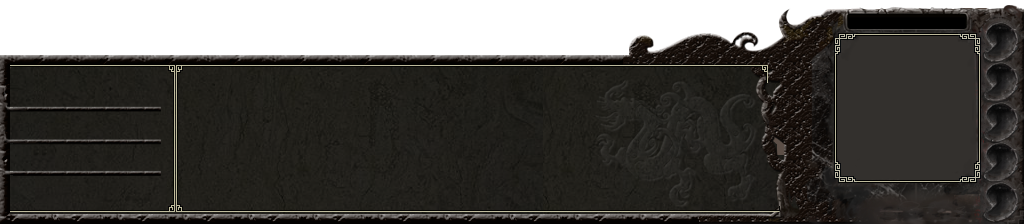
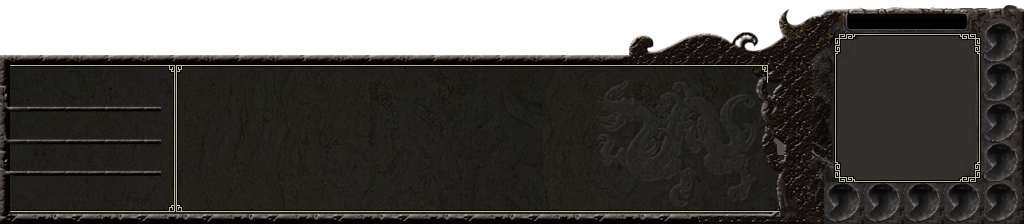
Tell the seat information when all role is assigned
1. Cao Cao can not invoke Hujia when there is no wei general
2. Liu Bei can not invoke Jijiang when there is no shu general
3. Move mark & markable to Pixmap
4. Dongzhuo's hp is drawed more suitable
5. Rename max_hp to maxhp
6. Draw user's name when general's is not chosen
7. Add player's object name to chat box
8. Fix that Diaochan's Lijian don't throw card problem
9. Fix the Lusu's Haoshi invocation mechanism

Changed region(s): [[0.7812, 0.8125, 0.9688, 1.0]]

diff --git a/sanguosha.ts b/sanguosha.ts
@@ -3158,7 +3158,7 @@
     <message>
         <location filename="src/thicket.cpp" line="707"/>
         <source>songwei:yes</source>
-        <translation>你可进行一次判定， 若结果为黑色且生效，可以让曹丕摸一张牌</translation>
+        <translation>可以让曹丕摸一张牌</translation>
     </message>
     <message>
         <location filename="src/thicket.cpp" line="708"/>

diff --git a/src/thicket.cpp b/src/thicket.cpp
@@ -300,15 +300,11 @@ public:
     Haoshi():PhaseChangeSkill("haoshi"){
     }
 
-    virtual int getPriority(ServerPlayer *) const{
-        return -1;
-    }
-
     virtual bool onPhaseChange(ServerPlayer *lusu) const{
         if(lusu->getPhase() == Player::Draw){
             Room *room = lusu->getRoom();
             if(room->askForSkillInvoke(lusu, objectName())){
-                lusu->drawCards(2);
+                lusu->drawCards(4);
 
                 if(lusu->getHandcardNum() > 5){
                     QList<ServerPlayer *> other_players = room->getOtherPlayers(lusu);
@@ -318,6 +314,8 @@ public:
                     room->setPlayerMark(lusu, "haoshi", least);
                     room->askForUseCard(lusu, "@@haoshi!", "@haoshi");
                 }
+
+                return true;
             }
         }
 
@@ -566,7 +564,7 @@ public:
                     room->getThread()->trigger(Death, dongzhuo);
                 }
 
-                room->broadcastProperty(dongzhuo, "max_hp");
+                room->broadcastProperty(dongzhuo, "maxhp");
                 room->broadcastProperty(dongzhuo, "hp");
             }
         }
@@ -585,10 +583,7 @@ public:
         if(target->getGeneral()->getKingdom() != "qun")
             return false;
 
-        if(target->isLord())
-            return false;
-
-        return target->getRoom()->getLord()->hasSkill(objectName());
+        return !target->isLord();
     }
 
     virtual bool trigger(TriggerEvent event, ServerPlayer *player, QVariant &data) const{

diff --git a/src/room.cpp b/src/room.cpp
@@ -757,6 +757,13 @@ void Room::assignRoles(){
 
     for(i=0; i<players.length(); i++)
         players.at(i)->setSeat(i+1);
+
+    // tell the players about the seat, and the first is always the lord
+    QStringList player_circle;
+    foreach(ServerPlayer *player, players){
+        player_circle << player->objectName();
+    }
+    broadcastInvoke("arrangeSeats", player_circle.join("+"));
 }
 
 void Room::chooseCommand(ServerPlayer *player, const QString &general_name){
@@ -949,13 +956,7 @@ void Room::startGame(){
     for(i=1; i<players.count(); i++)
         broadcastProperty(players.at(i), "general");
 
-    // tell the players about the seat, and the first is always the lord
-    QStringList player_circle;
-    foreach(ServerPlayer *player, players){
-        alive_players << player;
-        player_circle << player->objectName();
-    }
-    broadcastInvoke("arrangeSeats", player_circle.join("+"));
+    alive_players = players;
 
     // set hp full state
     int lord_welfare = player_count > 4 ? 1 : 0;
@@ -968,7 +969,7 @@ void Room::startGame(){
     foreach(ServerPlayer *player, players){
         player->setHp(player->getMaxHP());
 
-        broadcastProperty(player, "max_hp");
+        broadcastProperty(player, "maxhp");
         broadcastProperty(player, "hp");
     }
 

diff --git a/src/pixmap.cpp b/src/pixmap.cpp
@@ -4,7 +4,8 @@
 #include <QGraphicsColorizeEffect>
 #include <QMessageBox>
 
-Pixmap::Pixmap(const QString &filename, bool center_as_origin):pixmap(filename)
+Pixmap::Pixmap(const QString &filename, bool center_as_origin)
+    :pixmap(filename), markable(false), marked(false)
 {
     if(pixmap.isNull()){
         QString warning = tr("Can not load image %1[%2]").arg(filename).arg(metaObject()->className());
@@ -15,8 +16,9 @@ Pixmap::Pixmap(const QString &filename, bool center_as_origin):pixmap(filename)
         setTransformOriginPoint(pixmap.width()/2, pixmap.height()/2);
 }
 
-Pixmap::Pixmap(){
-
+Pixmap::Pixmap()
+    :markable(false), marked(false)
+{
 }
 
 QRectF Pixmap::boundingRect() const{
@@ -56,4 +58,26 @@ QVariant Pixmap::itemChange(GraphicsItemChange change, const QVariant &value){
 
 void Pixmap::mousePressEvent(QGraphicsSceneMouseEvent *event){
     setSelected(true);
+}
+
+
+bool Pixmap::isMarked() const{
+    return markable && marked;
+}
+
+bool Pixmap::isMarkable() const{
+    return markable;
+}
+
+void Pixmap::mark(bool marked){
+    if(markable){
+        if(this->marked != marked){
+            this->marked = marked;
+            emit mark_changed();
+        }
+    }
+}
+
+void Pixmap::setMarkable(bool markable){
+    this->markable = markable;
 }

diff --git a/src/standard-generals.cpp b/src/standard-generals.cpp
@@ -41,13 +41,14 @@ public:
             return false;
 
         Room *room = caocao->getRoom();
+        QList<ServerPlayer *> lieges = room->getLieges(caocao);
+        if(lieges.isEmpty())
+            return false;
 
         if(!room->askForSkillInvoke(caocao, objectName()))
             return false;
 
         room->playSkillEffect(objectName());
-
-        QList<ServerPlayer *> lieges = room->getLieges(caocao);
         foreach(ServerPlayer *liege, lieges){
             QString result = room->askForChoice(liege, objectName(), "accept+ignore");
             if(result == "ignore")
@@ -395,12 +396,14 @@ public:
             return false;
 
         Room *room = liubei->getRoom();
+        QList<ServerPlayer *> lieges = room->getLieges(liubei);
+        if(lieges.isEmpty())
+            return false;
+
         if(!room->askForSkillInvoke(liubei, objectName()))
             return false;
 
-        room->playSkillEffect(objectName());
-
-        QList<ServerPlayer *> lieges = room->getLieges(liubei);
+        room->playSkillEffect(objectName());        
         foreach(ServerPlayer *liege, lieges){
             const Card *slash = room->askForCard(liege, "slash", "jijiang-slash");
             if(slash){

diff --git a/src/dashboard.cpp b/src/dashboard.cpp
@@ -199,19 +199,26 @@ void Dashboard::paint(QPainter *painter, const QStyleOptionGraphicsItem *option,
 
     // draw player's hp
     int hp = player->getHp();
-    hp = qMin(hp, 6);
+    int hp_index = qMin(hp, 6);
     QPixmap *magatama;
     if(player->isWounded())
-        magatama = &magatamas[hp-1];
+        magatama = &magatamas[hp_index - 1];
     else
         magatama = &magatamas[4]; // the green magatama which denote full blood state
     int i;
-    for(i=0; i<hp; i++)
+
+    int basic_hp = qMin(hp, 5);
+    for(i=0; i<basic_hp; i++)
         painter->drawPixmap(985, 24 + i*(magatama->height()+4), *magatama);
 
-    if(Self->hasSkill("benghuai")){
+    // draw extra hp (i.e. Dongzhuo, Shen Lubu, Shen Guanyu)
+    int extra_hp = hp - basic_hp;
+    for(i=0; i<extra_hp; i++)
+        painter->drawPixmap(946 - i * 40, 184, *magatama);
+
+    if(Self->hasSkill("benghuai") && Self->getMaxHP() > 0){
         QString hp_str = QString("%1/%2").arg(Self->getHp()).arg(Self->getMaxHP());
-        painter->drawText(944, 192+26, hp_str);
+        painter->drawText(792, 180, hp_str);
     }
 
     // draw player's equip area

diff --git a/src/carditem.cpp b/src/carditem.cpp
@@ -8,7 +8,7 @@
 #include <QParallelAnimationGroup>
 
 CardItem::CardItem(const Card *card)
-    :Pixmap(card->getPixmapPath(), false), card(card), markable(false), marked(false)
+    :Pixmap(card->getPixmapPath(), false), card(card)
 {
     Q_ASSERT(card != NULL);
 
@@ -125,27 +125,6 @@ void CardItem::paint(QPainter *painter, const QStyleOptionGraphicsItem *option, 
     else
         painter->setPen(Qt::black);
     painter->drawText(8, 50, card->getNumberString());
-}
-
-bool CardItem::isMarked() const{
-    return markable && marked;
-}
-
-bool CardItem::isMarkable() const{
-    return markable;
-}
-
-void CardItem::mark(bool marked){
-    if(markable){
-        if(this->marked != marked){
-            this->marked = marked;
-            emit mark_changed();
-        }
-    }
-}
-
-void CardItem::setMarkable(bool markable){
-    this->markable = markable;
 }
 
 GuanxingCardItem::GuanxingCardItem(const Card *card)

diff --git a/src/photo.cpp b/src/photo.cpp
@@ -207,7 +207,13 @@ void Photo::addCardItem(CardItem *card_item){
 
 void Photo::paint(QPainter *painter, const QStyleOptionGraphicsItem *option, QWidget *widget){
     Pixmap::paint(painter, option, widget);
-    if(!player || hide_avatar)
+
+    if(!player)
+        return;
+    painter->setPen(Qt::white);
+    painter->drawText(QRectF(0,0,132,19), player->objectName(), QTextOption(Qt::AlignHCenter));
+
+    if(hide_avatar)
         return;
 
     painter->drawPixmap(1, 13, avatar);
@@ -223,10 +229,7 @@ void Photo::paint(QPainter *painter, const QStyleOptionGraphicsItem *option, QWi
         painter->drawPixmap(5, 30, death_pixmap);
 
         return;
-    }
-
-    painter->setPen(Qt::white);
-    painter->drawText(QRectF(0,0,132,19), player->objectName(), QTextOption(Qt::AlignHCenter));
+    }    
 
     // draw magatamas, similar with dashboard, but magatama is smaller
     int hp = player->getHp();

diff --git a/src/carditem.h b/src/carditem.h
@@ -25,11 +25,6 @@ public:
 
     bool isEquipped() const;
 
-    bool isMarked() const;
-    bool isMarkable() const;
-    void mark(bool marked = true);
-    void setMarkable(bool markable);
-
 protected:
     virtual void mousePressEvent(QGraphicsSceneMouseEvent *event);
     virtual void mouseReleaseEvent(QGraphicsSceneMouseEvent *event);
@@ -42,15 +37,12 @@ private:
     QPixmap suit_pixmap, icon_pixmap;
     QPointF home_pos;
 
-    bool markable, marked;
-
 signals:
     void show_discards();
     void hide_discards();
     void clicked();
     void double_clicked();
     void thrown();
-    void mark_changed();
 };
 
 class GuanxingCardItem : public CardItem {

diff --git a/src/pixmap.h b/src/pixmap.h
@@ -14,12 +14,23 @@ public:
     void changePixmap(const QString &name);
     void shift();
 
+    bool isMarked() const;
+    bool isMarkable() const;
+    void mark(bool marked = true);
+    void setMarkable(bool markable);
+
 protected:
     virtual QVariant itemChange(GraphicsItemChange change, const QVariant &value);
     virtual void paint(QPainter *painter, const QStyleOptionGraphicsItem *option, QWidget *widget);
     virtual void mousePressEvent(QGraphicsSceneMouseEvent *event);
 
     QPixmap pixmap;
+
+private:
+    bool markable, marked;
+
+signals:
+    void mark_changed();
 };
 
 #endif // PIXMAP_H

diff --git a/src/roomscene.cpp b/src/roomscene.cpp
@@ -1744,8 +1744,9 @@ void RoomScene::speak(const QString &who, const QString &text){
     if(from){
         title = from->getGeneralName();
         title = Sanguosha->translate(title);
-    }else
-        title = from->objectName();
+        title.append(QString("(%1)").arg(from->objectName()));
+    }
+
     title = QString("<b>%1</b>").arg(title);
 
     QString line = QString(tr("[%1] said: %2").arg(title).arg(text));

diff --git a/src/player.h b/src/player.h
@@ -18,7 +18,7 @@ class Player : public QObject
 {
     Q_OBJECT
     Q_PROPERTY(int hp READ getHp WRITE setHp)
-    Q_PROPERTY(int max_hp READ getMaxHP WRITE setMaxHP)
+    Q_PROPERTY(int maxhp READ getMaxHP WRITE setMaxHP)
     Q_PROPERTY(int xueyi READ getXueyi WRITE setXueyi)
     Q_PROPERTY(bool wounded READ isWounded STORED false)    
     Q_PROPERTY(QString role READ getRole WRITE setRole)
